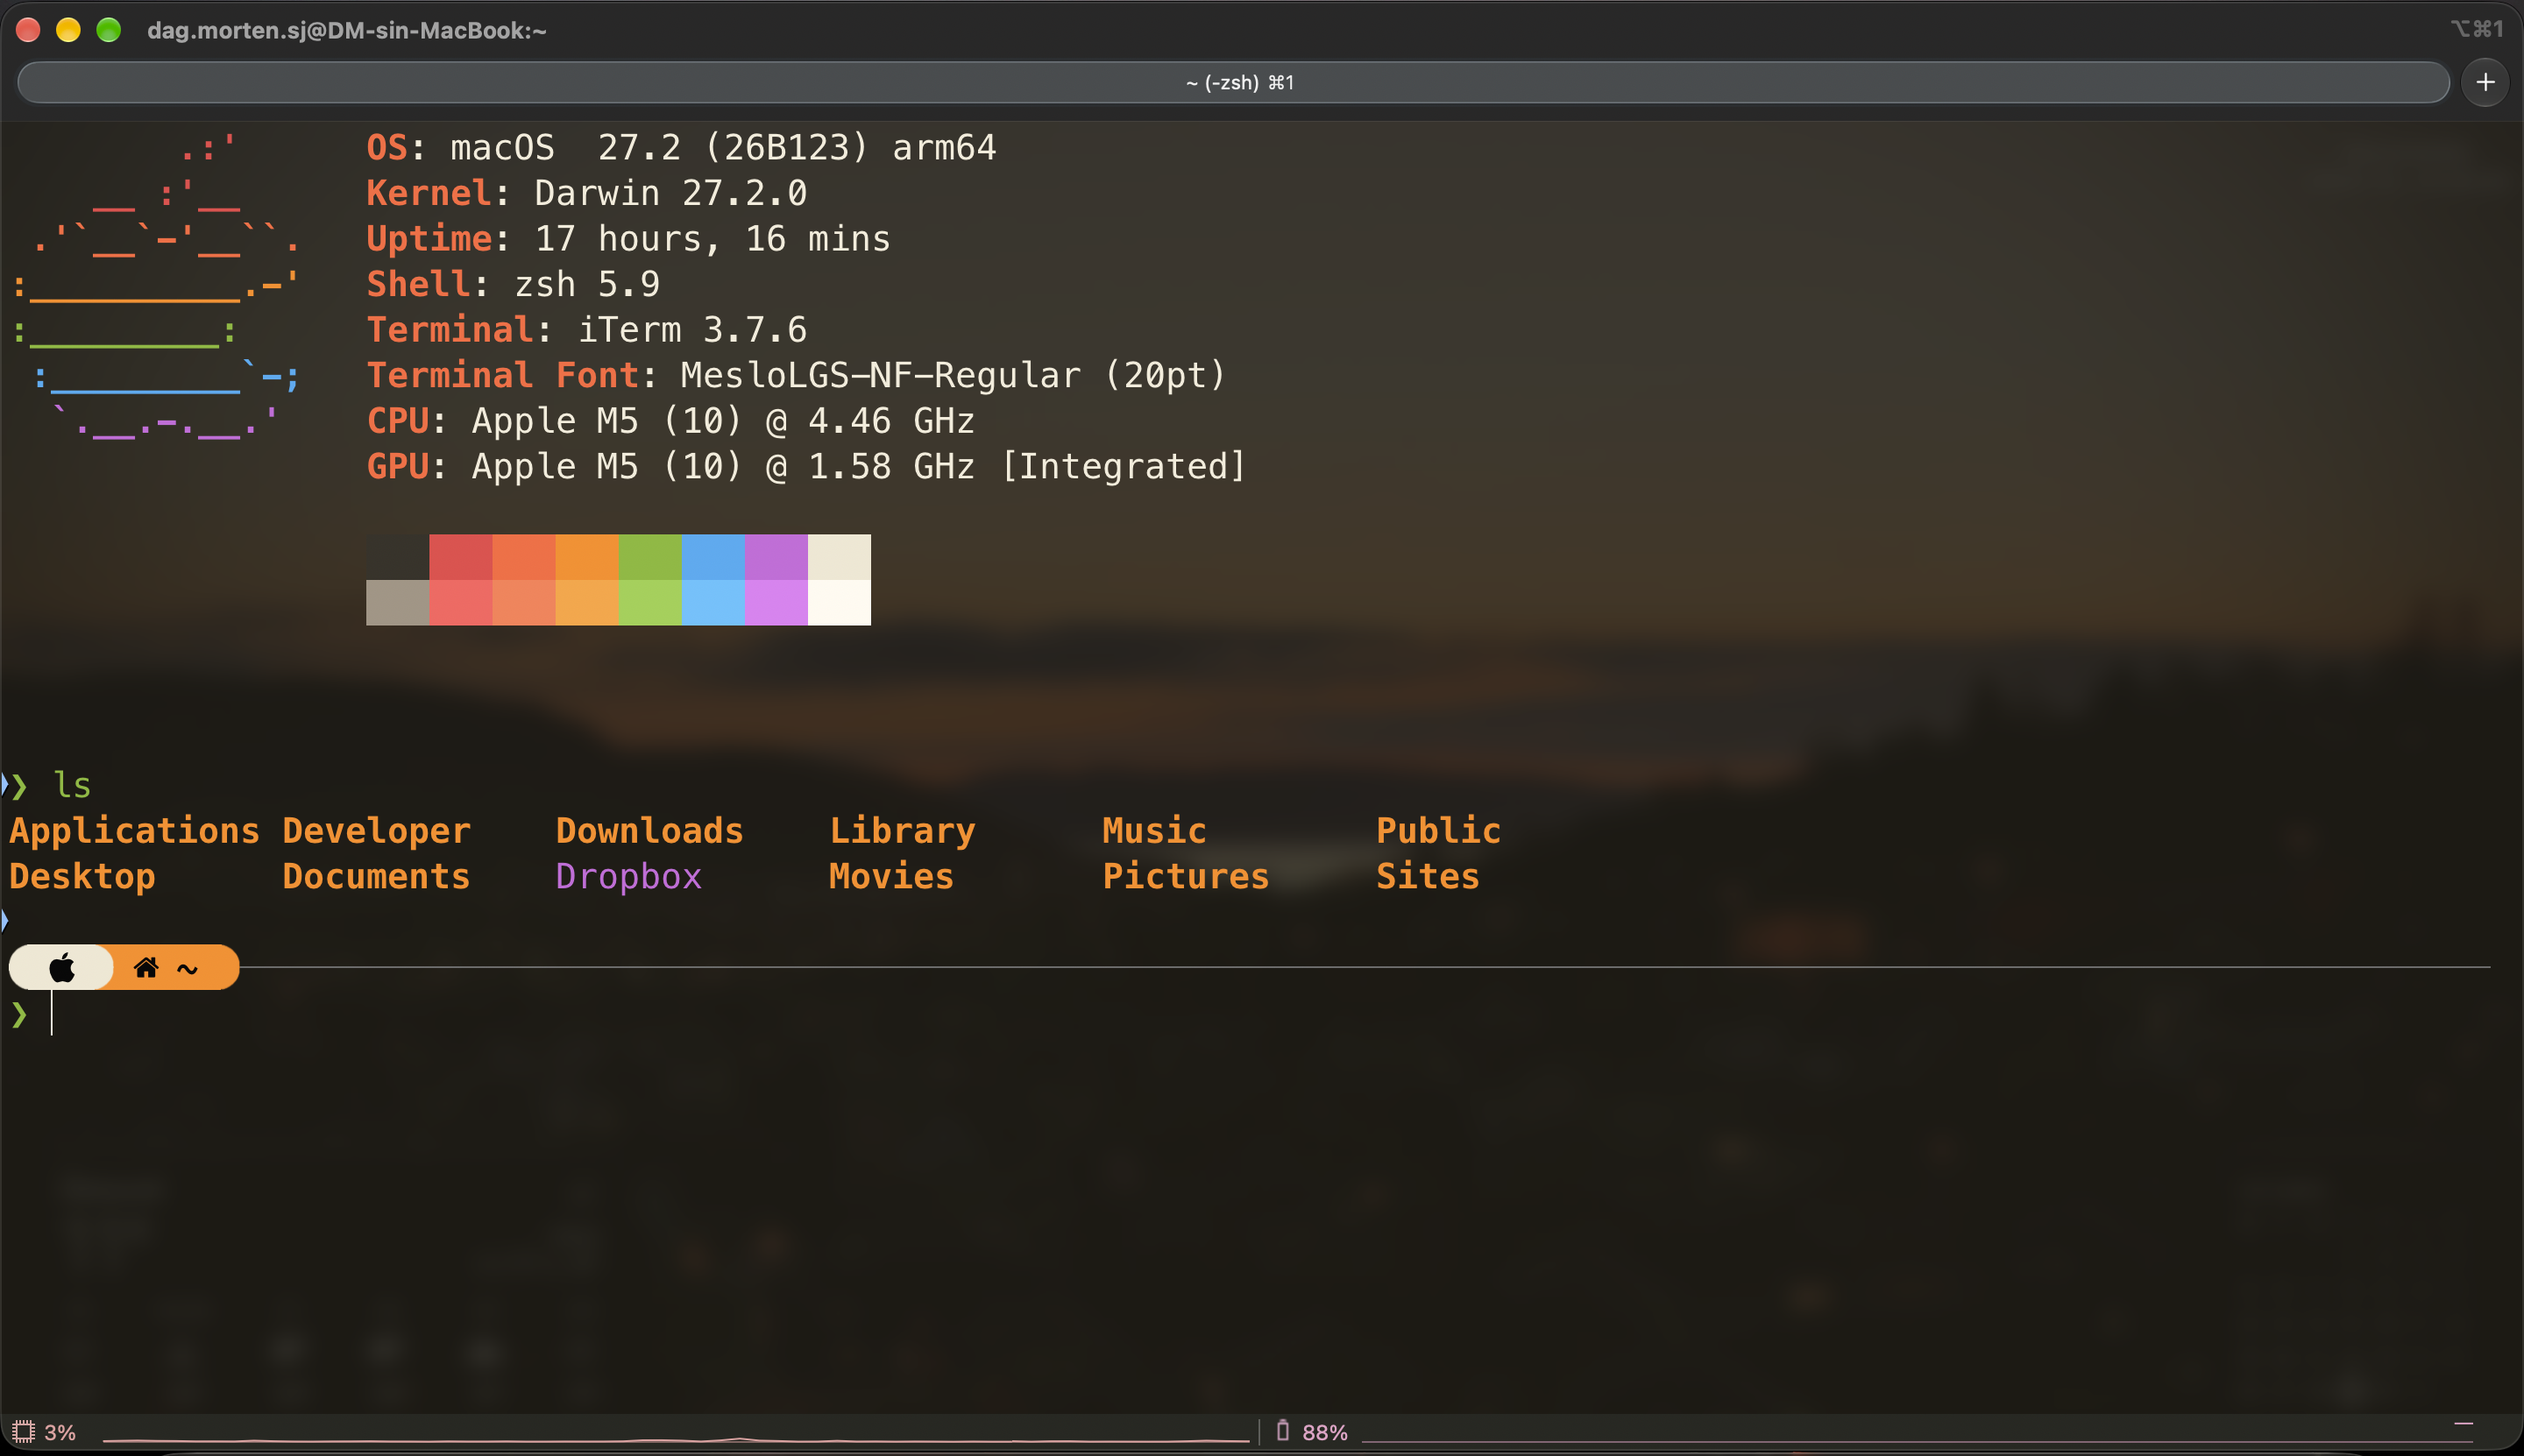
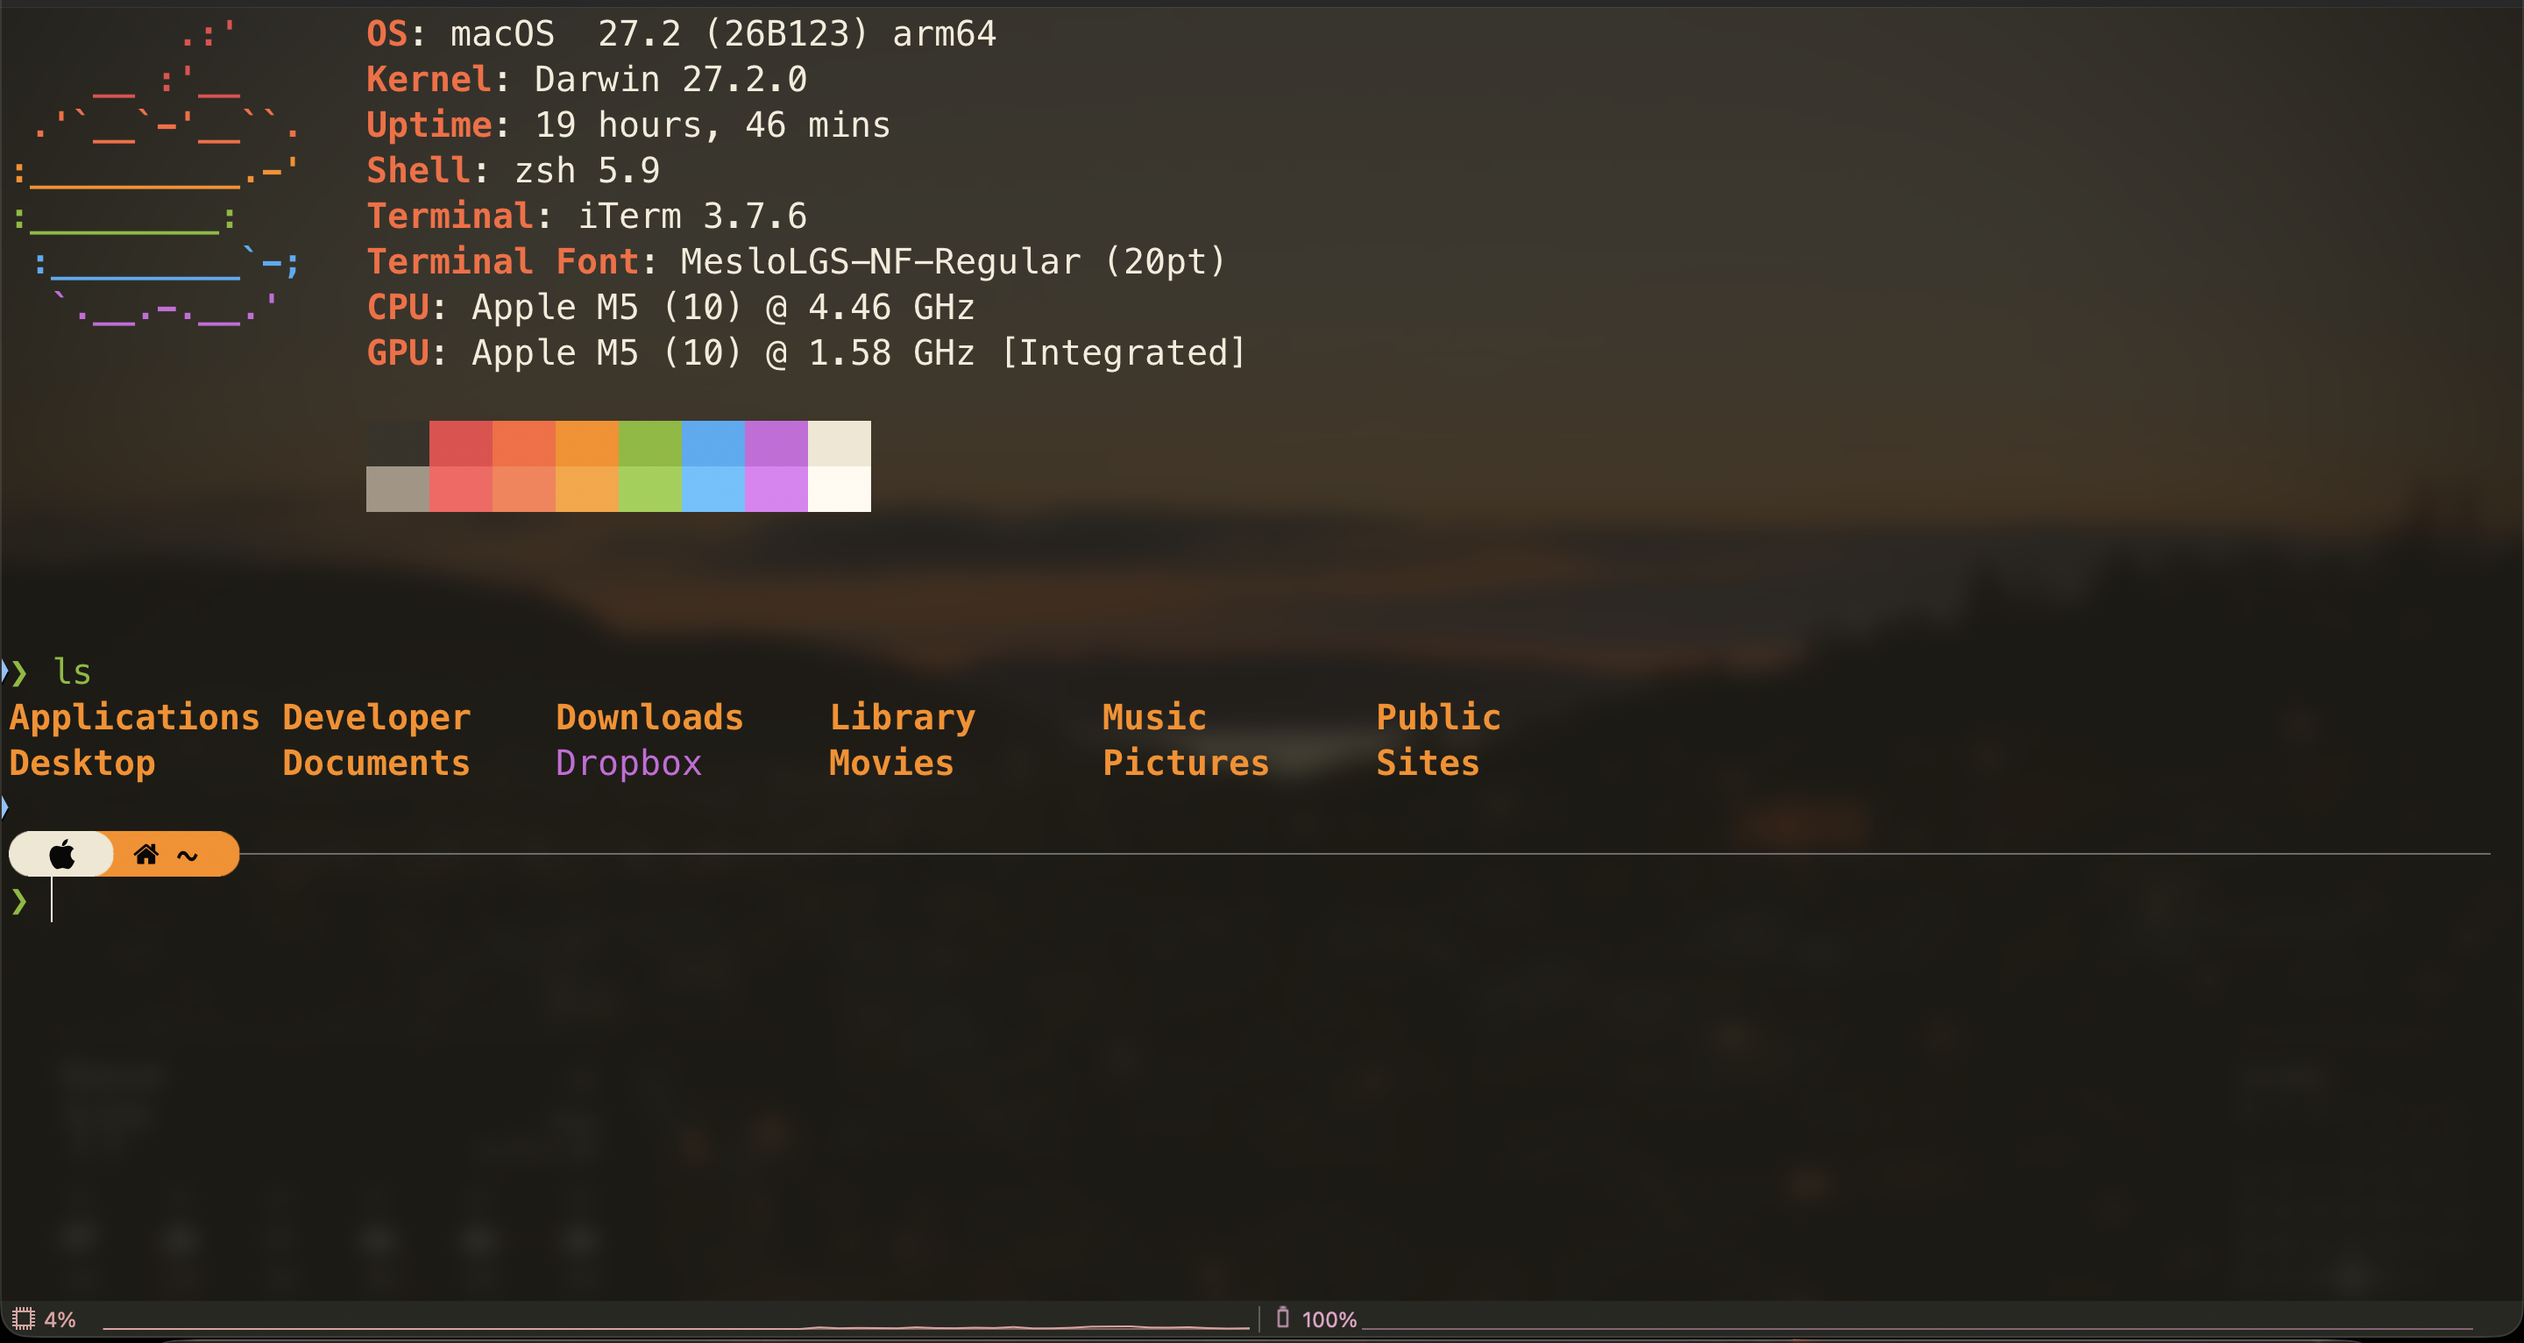
New screenshots, orbit example

diff --git a/examples/orbit.py b/examples/orbit.py
@@ -1,0 +1,39 @@
+"""Simulerer banen til en planet rundt sola med Euler-Cromers metode."""
+import matplotlib.pyplot as plt
+import numpy as np
+
+GM = 4 * np.pi**2   # AU^3/år^2, når massen til sola er 1
+DT = 0.001          # tidssteg i år
+SLUTT = 2.0         # simuleringstid i år
+
+
+def akselerasjon(r):
+    """Gravitasjonsakselerasjonen fra sola i punktet r."""
+    avstand = np.linalg.norm(r)
+    return -GM * r / avstand**3
+
+
+def simuler(r0, v0, dt=DT, slutt=SLUTT):
+    n = int(slutt / dt)
+    r = np.zeros((n, 2))
+    v = np.zeros((n, 2))
+    r[0], v[0] = r0, v0
+    for i in range(n - 1):
+        v[i + 1] = v[i] + akselerasjon(r[i]) * dt
+        r[i + 1] = r[i] + v[i + 1] * dt
+        if np.linalg.norm(r[i + 1]) < 0.01:
+            print(f"Kollisjon etter {i * dt:.2f} år")
+            return r[: i + 2]
+    return r
+
+
+if __name__ == "__main__":
+    for fart in [5.0, 2 * np.pi, 7.5]:
+        bane = simuler(np.array([1.0, 0.0]), np.array([0.0, fart]))
+        plt.plot(bane[:, 0], bane[:, 1], label=f"v0 = {fart:.2f} AU/år")
+    plt.plot(0, 0, "o", color="orange", label="Sola")
+    plt.axis("equal")
+    plt.xlabel("x (AU)")
+    plt.ylabel("y (AU)")
+    plt.legend()
+    plt.show()

diff --git a/README.md b/README.md
@@ -4,9 +4,9 @@ A light and a dark theme in earth tones for VS Code and iTerm. *Høst* is Norweg
 
 **Høstlys** (autumn light) is the light theme and **Høstkveld** (autumn evening) the dark one. The palette comes from a set of LuaLaTeX templates for teaching notes, so code in the editor and the finished PDF share the same colours. The themes are tuned for LaTeX and Python, and cover the rest of VS Code as well.
 
-![Høstkveld in VS Code](docs/screenshots/hostkveld.png)
+![Høstkveld in VS Code](docs/screenshots/hoestkveld.png)
 
-![Høstlys in VS Code](docs/screenshots/hostlys.png)
+![Høstlys in VS Code](docs/screenshots/hoestlys.png)
 
 ![Høstkveld in iTerm](docs/screenshots/iterm.png)
 
